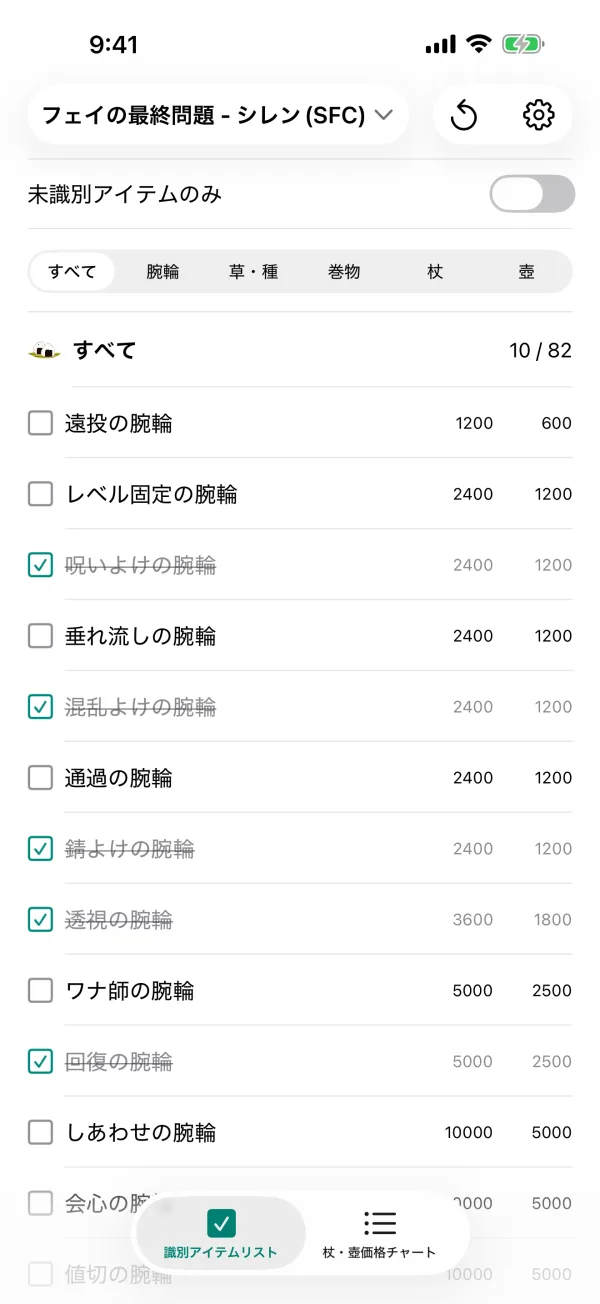
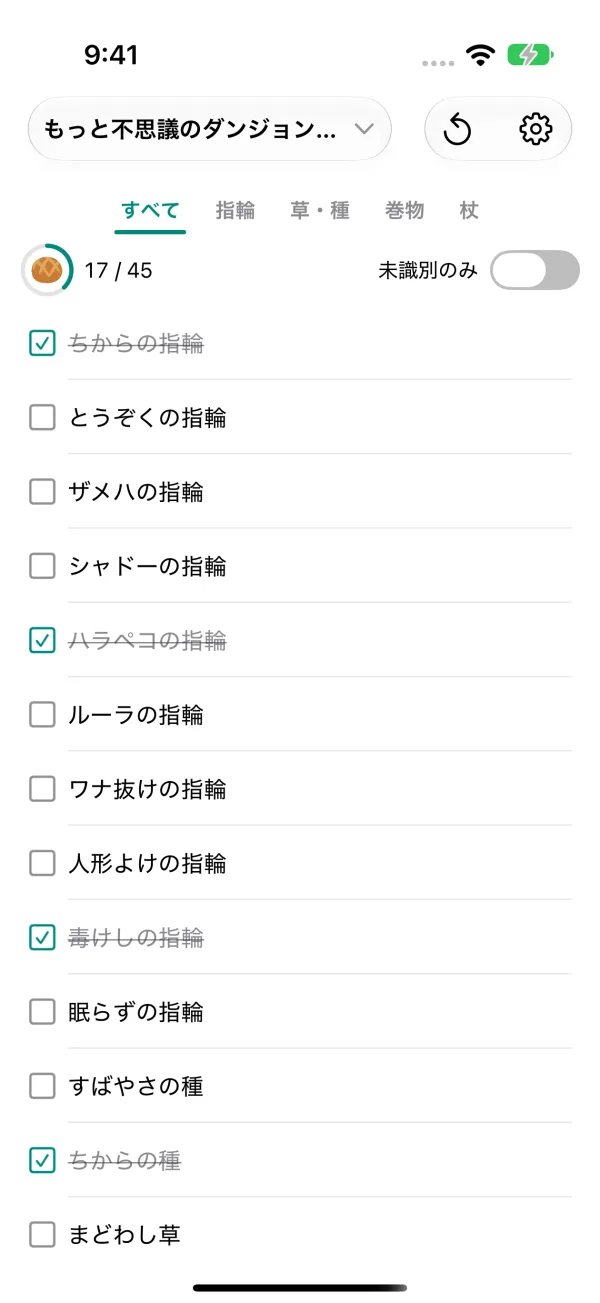
識別のアプリの紹介ページのサンプルをトルネコの大冒険のもっと不思議のダンジョンにする
スクリーンショット 3 枚と OGP 画像を、トルネコの大冒険・もっと不思議のダンジョンを選んだ状態で撮り直す。
このダンジョンには杖・壺価格チャートとおまじないがないため、識別アイテムリスト（すべて / 草・種）とダンジョン選択の 3 枚にした。

diff --git a/identify-app/index.html b/identify-app/index.html
@@ -13,7 +13,7 @@
 <meta property="og:image" content="https://shinespark.github.io/identify-app/img/ogp.png">
 <meta property="og:image:width" content="1200">
 <meta property="og:image:height" content="630">
-<meta property="og:image:alt" content="識別のアプリの識別アイテムリスト画面。識別したアイテムをチェックして、未識別のアイテムをひと目で。">
+<meta property="og:image:alt" content="識別のアプリの識別アイテムリスト画面（トルネコの大冒険・もっと不思議のダンジョン）。識別したアイテムをチェックして、未識別のアイテムをひと目で。">
 <meta property="og:url" content="https://shinespark.github.io/identify-app/">
 <meta name="twitter:card" content="summary_large_image">
 <style>
@@ -165,9 +165,9 @@
   </section>
 
   <section class="wrap shots">
-    <img src="./img/01-item-list.webp" width="600" height="1304" loading="lazy" alt="識別アイテムリスト画面。アイテムごとのチェックボックスと買値・売値、カテゴリの切り替え。">
-    <img src="./img/02-chart.webp" width="600" height="1304" loading="lazy" alt="杖・壺価格チャート画面。回数ごとの買値・売値の一覧。">
-    <img src="./img/03-magic.webp" width="600" height="1304" loading="lazy" alt="おまじない画面。おまじないでもらえるアイテムのチェックリスト。">
+    <img src="./img/01-item-list.webp" width="600" height="1303" loading="lazy" alt="トルネコの大冒険・もっと不思議のダンジョンの識別アイテムリスト。識別したアイテムにチェックが付き、識別数が 17 / 45 と表示されている。">
+    <img src="./img/02-category.webp" width="600" height="1303" loading="lazy" alt="草・種のタブを開いた識別アイテムリスト。識別率のリングと、チェック済みの草・種。">
+    <img src="./img/03-dungeon-menu.webp" width="600" height="1303" loading="lazy" alt="ダンジョン選択を開いた状態。作品ごとにダンジョンが並ぶ。">
   </section>
 
   <section class="wrap features">
